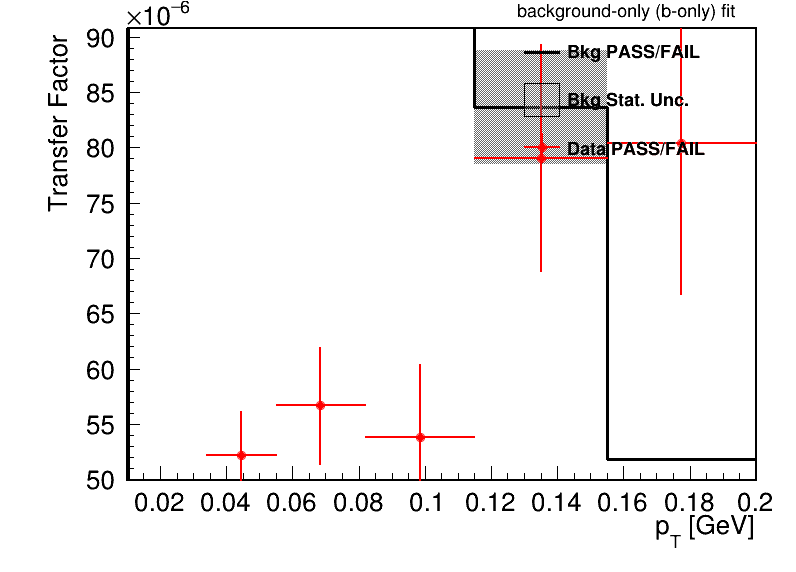
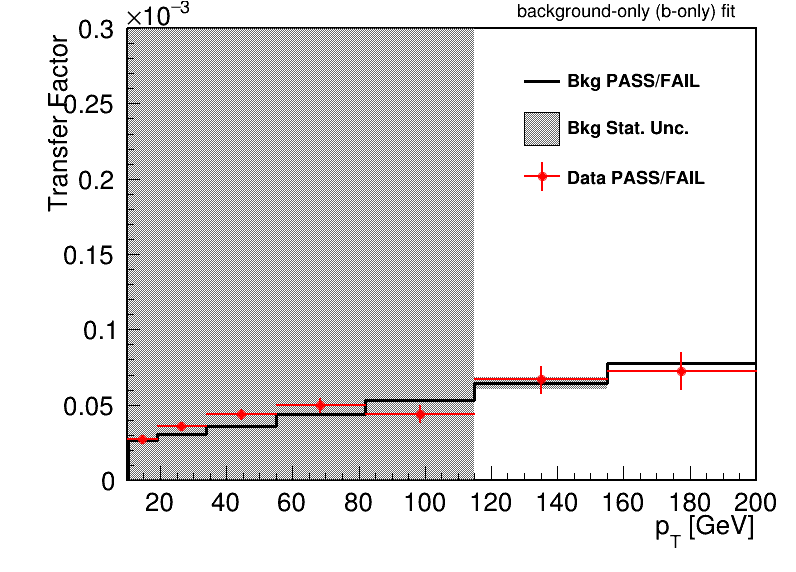
Added v13 results and matched param bounds over both v11 and v13

Changed region(s): [[0.0603, 0.0, 0.995, 0.8916], [0.7839, 0.8024, 0.9347, 0.8322], [0.0905, 0.8322, 0.1508, 0.8619]]

diff --git a/runWith1DVanilla_v13_VR.py b/runWith1DVanilla_v13_VR.py
@@ -38,7 +38,7 @@ _rpf_options = {
         'form': '0.1*(@0+@1*x)',
         'constraints': {
             0: {"MIN": 0.0, "MAX": 50},
-            1: {"MIN": -0.01, "MAX": 500}
+            1: {"MIN": -0.1, "MAX": 0.1}
         }
     },
     '1x0Prime': {
@@ -56,11 +56,11 @@ _rpf_options = {
     '2x0': {
         'form': '0.1*(@0+@1*x+@2*x**2)*(@3)',
         'constraints': {
-            0: {"MIN": 0.0, "MAX": 100},
-            1: {"MIN": 50, "MAX": 100},
-            2: {"MIN": -50, "MAX": 0},
-            3: {"MIN": 0, "MAX": 0.1}
-        }
+            0: {"MIN": 0.0, "MAX": 1},
+            1: {"MIN": 0.5, "MAX": 1},
+            2: {"MIN": -0.5, "MAX": 0},
+            3: {"MIN": 0, "MAX": 1}
+         }
     },
     '2x1': {
         'form': '0.1*(@0+@1*x+@2*x**2)*(1+@3*y)',
@@ -72,7 +72,10 @@ _rpf_options = {
     },
     'expo': {
         'form': 'exp(-@0*x+@1)',
-        'constraints': _generate_constraints(2)
+        'constraints': {
+            0: {"MIN": -1.0, "MAX": 50},
+            1: {"MIN": -500, "MAX": 500}
+            }
         },
     'sigmoid': {
         'form': '(@0+0.1*@4*x)/(@1+exp(-@2*x+@3))',
@@ -180,8 +183,8 @@ def plot_fit(signal, tf):
     print("Doing twoD.ledger.select")
     subset = twoD.ledger.select(_select_signal, '{}'.format(signal), tf) 
     print("Doing twoD.StdPlots")
-    twoD.StdPlots('{}-{}_area'.format(signal, tf), subset, lumiText=r'Run 3 Cosmics', pf_slice_str={"fail":"RNNScore < 0.9999","pass":"RNNScore > 0.9999"})
-    twoD.StdPlots('{}-{}_area'.format(signal, tf), subset, True, lumiText=r'Run 3 Cosmics', pf_slice_str={"fail":"RNNScore < 0.9999","pass":"RNNScore > 0.9999"})
+    twoD.StdPlots('{}-{}_area'.format(signal, tf), subset, lumiText=r'Run 3 Cosmics', pf_slice_str={"fail":"RNNScore < 0.45","pass":"0.45 < RNNScore < 0.9999"})
+    twoD.StdPlots('{}-{}_area'.format(signal, tf), subset, True, lumiText=r'Run 3 Cosmics', pf_slice_str={"fail":"RNNScore < 0.45","pass":"0.45 < RNNScore < 0.9999"})
 
 def GOF(signal,tf,condor=True, extra=''):
     # replace the blindedFit option in the config file with COMMENT to effectively "unblind" the GoF
@@ -366,10 +369,9 @@ def test_FTest(poly1, poly2, signal=''):
 
 if __name__ == "__main__":
     make_workspace()
-    
-    signal_areas = []#, "Signal_M3000GeV"]#, "Signal_M3000GeV"]#"Signal_M900GeV","Signal_M1000GeV","Signal_M1100GeV","Signal_M1200GeV","Signal_M1300GeV","Signal_M1400GeV",]
-    #signal_areas = ["Signal_M1100GeV","Signal_M1200GeV","Signal_M1300GeV","Signal_M1400GeV","Signal_M1500GeV","Signal_M1600GeV","Signal_M1700GeV","Signal_M1800GeV","Signal_M1900GeV","Signal_M2000GeV","Signal_M2100GeV","Signal_M2200GeV","Signal_M2300GeV","Signal_M2400GeV","Signal_M2500GeV","Signal_M2600GeV","Signal_M2700GeV","Signal_M2800GeV","Signal_M2900GeV","Signal_M3000GeV","Signal_M3250GeV","Signal_M3500GeV","Signal_M3750GeV","Signal_M4000GeV","Signal_M4250GeV","Signal_M4500GeV","Signal_M4750GeV","Signal_M5000GeV"]
-    tf_types = []#,'0x0']
+
+    signal_areas = ["Signal_M3000GeV","Signal_M3000GeV","Signal_M3000GeV"]
+    tf_types = ['2x0','1x0','0x0']
 
     for signal, tf_type in zip(signal_areas,tf_types) :
       # IGNORE: When there are 100 signals, let's make sure we only run on the ones we didnt do before
@@ -387,7 +389,7 @@ if __name__ == "__main__":
           rMax = rMax / 2.
       plot_fit(signal,tf_type)
       print("\n\n\nFit is succesful, running limits now for " + str(signal))
-      run_limits(signal,tf_type)
+      #run_limits(signal,tf_type)
       GOF(signal,tf_type,condor=False)#,extra='--text2workspace --channel-masks --setParameters mask_pass_SIG=1,mask_pass_HIGH=1')
       plot_GOF(signal,tf_type,condor=False)
       #for r in [0,0.1,0.5,1,2,3]:

diff --git a/plot_TF_danyi.py b/plot_TF_danyi.py
@@ -38,7 +38,7 @@ if __name__ == "__main__":
     
     binning = "V5"
     inVersion = "V21" #"V21"
-    tf = "2x0" # "Expo"
+    tf = "1x0" # "Expo"
     
     # for MBH_val in range(3000, 12000, 1000):
     for MBH_val in [10000]:
@@ -50,11 +50,11 @@ if __name__ == "__main__":
         # ===========================
         # rootdir = f'/home/users/dazhang/works/phaseSpace/BlackHoleSearch/CMSSW_14_1_0_pre4/src/rpf{tf}_Binning{binning}_Blind_In{inVersion}_Multi4_FullScan_MD2TeV'
         # rootdir = f'/home/users/dazhang/works/phaseSpace/BlackHoleSearch/CMSSW_14_1_0_pre4/src/rpf{tf}_Binning{binning}_Blind_In{inVersion}_Multi4'
-        rootdir = f'/home/users/smasanam/EarthAsDMProject/CMSSW_14_1_0_pre4/src/rpfmult_Binningv6alt_Inputv12_VR2_Unblind_3000GeV_normalized'
+        rootdir = f'/home/users/smasanam/EarthAsDMProject/CMSSW_14_1_0_pre4/src/rpfmult_Binningv6alt_Inputv13_VR2_Unblind_3000GeV_normalized'
         # rootdir = f'/home/users/dazhang/works/phaseSpace/BlackHoleSearch/CMSSW_14_1_0_pre4/src/rpf{tf}_Binning{binning}_Unblind_In{inVersion}_Multi4'
         # rootdir = f'/home/users/dazhang/works/phaseSpace/BlackHoleSearch/CMSSW_14_1_0_pre4/src/rpf{tf}_Binning{binning}_Unblind_In{inVersion}_Multi4_FullScan_MD2TeV'
         # rootdir = f'/home/users/dazhang/works/phaseSpace/BlackHoleSearch/CMSSW_14_1_0_pre4/src/rpf{tf}_Binning{binning}_Blind_In{inVersion}_Multi4_Extrapol'
-        f = ROOT.TFile.Open(f"/home/users/smasanam/EarthAsDMProject/CMSSW_14_1_0_pre4/src/rpfmult_Binningv6alt_Inputv12_VR2_Unblind_3000GeV_normalized/Signal_M3000GeV-1x0_area/plots_fit_b/all_plots.root")
+        f = ROOT.TFile.Open(f"/home/users/smasanam/EarthAsDMProject/CMSSW_14_1_0_pre4/src/rpfmult_Binningv6alt_Inputv13_VR2_Unblind_3000GeV_normalized/Signal_M3000GeV-1x0_area/plots_fit_b/all_plots.root")
         # get the histogram
         h_fail = f.Get("TotalBkg_fail_postfit_projx2")
         h_pass = f.Get("TotalBkg_pass_postfit_projx2")
@@ -162,13 +162,13 @@ if __name__ == "__main__":
         h_ratio.SetBinError(h_ratio.GetNbinsX(), 0.0)
         
         
-        h_ratio = convert_hist_to_tev(h_ratio)  # Convert to TeV
+        h_ratio = h_ratio  # Convert to TeV
         h_ratio.SetLineColor(ROOT.kBlack)
         h_ratio.SetLineWidth(1)
         
         h_ratio_data = h_data_pass.Clone("h_ratio_data")
         h_ratio_data.Divide(h_data_fail)
-        h_ratio_data = convert_hist_to_tev(h_ratio_data)  # Convert to TeV
+        h_ratio_data = h_ratio_data  # Convert to TeV
         h_ratio_data.SetMarkerStyle(20) # Circle marker
         h_ratio_data.SetMarkerSize(1.0)
         h_ratio_data.SetLineWidth(2)
@@ -192,7 +192,7 @@ if __name__ == "__main__":
         # h_ratio.GetYaxis().SetRangeUser(0, 0.2)
         h_ratio.GetXaxis().SetTitle("p_{T} [GeV]")
         h_ratio.GetYaxis().SetTitle("Transfer Factor")
-        # h_ratio.GetYaxis().SetRangeUser(0, 1.5)
+        h_ratio.GetYaxis().SetRangeUser(0, 0.0003)
         h_ratio.GetXaxis().SetTitleSize(0.05)
         h_ratio.GetYaxis().SetTitleSize(0.05)
         #tdrstyle.drawCMSLabel(label="Preliminary")
@@ -249,7 +249,7 @@ if __name__ == "__main__":
         # tf_lower_graph.Draw("SAME L")
         
         
-        legend = ROOT.TLegend(0.65, 0.7, 0.9, 0.95) # x1, y1, x2, y2 (NDC)
+        legend = ROOT.TLegend(0.65, 0.65, 0.9, 0.9) # x1, y1, x2, y2 (NDC)
         legend.AddEntry(h_ratio_clone, "Bkg PASS/FAIL", "l")
         legend.AddEntry(h_ratio, "Bkg Stat. Unc.", "f")
         legend.AddEntry(h_ratio_data, "Data PASS/FAIL", "lep") # "lep" for line, error, and point

diff --git a/runWith1DVanilla_v13_SR.py b/runWith1DVanilla_v13_SR.py
@@ -38,7 +38,7 @@ _rpf_options = {
         'form': '0.1*(@0+@1*x)',
         'constraints': {
             0: {"MIN": 0.0, "MAX": 50},
-            1: {"MIN": -0.01, "MAX": 500}
+            1: {"MIN": -0.1, "MAX": 0.1}
         }
     },
     '1x0Prime': {
@@ -56,11 +56,11 @@ _rpf_options = {
     '2x0': {
         'form': '0.1*(@0+@1*x+@2*x**2)*(@3)',
         'constraints': {
-            0: {"MIN": 0.0, "MAX": 100},
-            1: {"MIN": 50, "MAX": 100},
-            2: {"MIN": -50, "MAX": 0},
-            3: {"MIN": 0, "MAX": 0.1}
-        }
+            0: {"MIN": 0.0, "MAX": 1},
+            1: {"MIN": 0.5, "MAX": 1},
+            2: {"MIN": -0.5, "MAX": 0},
+            3: {"MIN": 0, "MAX": 1}
+         }
     },
     '2x1': {
         'form': '0.1*(@0+@1*x+@2*x**2)*(1+@3*y)',
@@ -367,9 +367,9 @@ def test_FTest(poly1, poly2, signal=''):
 if __name__ == "__main__":
     make_workspace()
     
-    signal_areas = []#, "Signal_M3000GeV"]#, "Signal_M3000GeV"]#"Signal_M900GeV","Signal_M1000GeV","Signal_M1100GeV","Signal_M1200GeV","Signal_M1300GeV","Signal_M1400GeV",]
+    signal_areas = ["Signal_M3000GeV", "Signal_M3000GeV", "Signal_M3000GeV"]
     #signal_areas = ["Signal_M1100GeV","Signal_M1200GeV","Signal_M1300GeV","Signal_M1400GeV","Signal_M1500GeV","Signal_M1600GeV","Signal_M1700GeV","Signal_M1800GeV","Signal_M1900GeV","Signal_M2000GeV","Signal_M2100GeV","Signal_M2200GeV","Signal_M2300GeV","Signal_M2400GeV","Signal_M2500GeV","Signal_M2600GeV","Signal_M2700GeV","Signal_M2800GeV","Signal_M2900GeV","Signal_M3000GeV","Signal_M3250GeV","Signal_M3500GeV","Signal_M3750GeV","Signal_M4000GeV","Signal_M4250GeV","Signal_M4500GeV","Signal_M4750GeV","Signal_M5000GeV"]
-    tf_types = []#,'0x0']
+    tf_types = ['2x0','1x0','0x0',]
 
     for signal, tf_type in zip(signal_areas,tf_types) :
       # IGNORE: When there are 100 signals, let's make sure we only run on the ones we didnt do before

diff --git a/runWith1DVanilla_v11_VR.py b/runWith1DVanilla_v11_VR.py
@@ -38,7 +38,7 @@ _rpf_options = {
         'form': '0.1*(@0+@1*x)',
         'constraints': {
             0: {"MIN": 0.0, "MAX": 50},
-            1: {"MIN": -50, "MAX": 500}
+            1: {"MIN": -0.1, "MAX": 0.1}
         }
     },
     '1x0Prime': {
@@ -56,10 +56,10 @@ _rpf_options = {
     '2x0': {
         'form': '0.1*(@0+@1*x+@2*x**2)*(@3)',
         'constraints': {
-            0: {"MIN": 0.0, "MAX": 100},
-            1: {"MIN": 50, "MAX": 100},
-            2: {"MIN": -50, "MAX": 0},
-            3: {"MIN": 0, "MAX": 0.1}
+            0: {"MIN": 0.0, "MAX": 1},
+            1: {"MIN": 0.5, "MAX": 1},
+            2: {"MIN": -0.5, "MAX": 0},
+            3: {"MIN": 0, "MAX": 1}
          }
     },
     '2x1': {
@@ -371,7 +371,7 @@ if __name__ == "__main__":
     make_workspace()
 
     signal_areas = ["Signal_M3000GeV","Signal_M3000GeV","Signal_M3000GeV"]
-    tf_types = ['2x0','1x0','0x0']
+    tf_types = ['1x0']
 
     for signal, tf_type in zip(signal_areas,tf_types) :
       # IGNORE: When there are 100 signals, let's make sure we only run on the ones we didnt do before

diff --git a/runWith1DVanilla_v13_VR2.py b/runWith1DVanilla_v13_VR2.py
@@ -56,10 +56,10 @@ _rpf_options = {
     '2x0': {
         'form': '0.1*(@0+@1*x+@2*x**2)*(@3)',
         'constraints': {
-            0: {"MIN": 0.0, "MAX": 100},
-            1: {"MIN": 50, "MAX": 100},
-            2: {"MIN": -50, "MAX": 0},
-            3: {"MIN": 0, "MAX": 0.1}
+            0: {"MIN": 0.0, "MAX": 1},
+            1: {"MIN": 0.5, "MAX": 1},
+            2: {"MIN": -0.5, "MAX": 0},
+            3: {"MIN": 0, "MAX": 0.01}
          }
     },
     '2x1': {
@@ -370,8 +370,8 @@ def test_FTest(poly1, poly2, signal=''):
 if __name__ == "__main__":
     make_workspace()
 
-    signal_areas = ["Signal_M3000GeV","Signal_M3000GeV","Signal_M3000GeV"]
-    tf_types = ['0x0','1x0', '2x0']
+    signal_areas = ["Signal_M3000GeV"]
+    tf_types = ['1x0']
 
     for signal, tf_type in zip(signal_areas,tf_types) :
       # IGNORE: When there are 100 signals, let's make sure we only run on the ones we didnt do before

diff --git a/runWith1DVanilla_v11_VR2.py b/runWith1DVanilla_v11_VR2.py
@@ -56,10 +56,10 @@ _rpf_options = {
     '2x0': {
         'form': '0.1*(@0+@1*x+@2*x**2)*(@3)',
         'constraints': {
-            0: {"MIN": 0.0, "MAX": 100},
-            1: {"MIN": 50, "MAX": 100},
-            2: {"MIN": -50, "MAX": 0},
-            3: {"MIN": 0, "MAX": 0.1}
+            0: {"MIN": 0.0, "MAX": 1},
+            1: {"MIN": 0.5, "MAX": 1},
+            2: {"MIN": -0.5, "MAX": 0},
+            3: {"MIN": 0, "MAX": 1}
          }
     },
     '2x1': {
@@ -370,8 +370,8 @@ def test_FTest(poly1, poly2, signal=''):
 if __name__ == "__main__":
     make_workspace()
 
-    signal_areas = ["Signal_M3000GeV","Signal_M3000GeV","Signal_M3000GeV"]
-    tf_types = ['2x0','1x0','0x0']
+    signal_areas = ["Signal_M3000GeV"]
+    tf_types = ['1x0']
 
     for signal, tf_type in zip(signal_areas,tf_types) :
       # IGNORE: When there are 100 signals, let's make sure we only run on the ones we didnt do before

diff --git a/2DAlphabet/TwoDAlphabet/alphawrap.py b/2DAlphabet/TwoDAlphabet/alphawrap.py
@@ -416,7 +416,7 @@ class BinnedDistribution(Generic2D):
                     if constant or self._nSurroundingZeros(cat_hist,xbin,ybin) > 7:
                         self.binVars[bin_name] = RooConstVar(bin_name, bin_name, cat_hist.GetBinContent(xbin,ybin))
                     else:
-                        self.binVars[bin_name] = RooRealVar(bin_name, bin_name, max(5,cat_hist.GetBinContent(xbin,ybin)), 1e-6, 1e6)
+                        self.binVars[bin_name] = RooRealVar(bin_name, bin_name, max(5,cat_hist.GetBinContent(xbin,ybin)), 1e-6, 1e9)
                         self.nuisances.append({'name':bin_name, 'constraint':'flatParam', 'obj': self.binVars[bin_name]})
                     self._varStorage.append(self.binVars[bin_name]) # For safety if we add shape templates            
                      

diff --git a/2DAlphabet/TwoDAlphabet/alphawrapMod.py b/2DAlphabet/TwoDAlphabet/alphawrapMod.py
@@ -379,7 +379,7 @@ class BinnedDistribution(Generic2D):
                     if constant or self._nSurroundingZeros(cat_hist,xbin,ybin) > 7:
                         self.binVars[bin_name] = RooConstVar(bin_name, bin_name, cat_hist.GetBinContent(xbin,ybin))
                     else:
-                        self.binVars[bin_name] = RooRealVar(bin_name, bin_name, max(5,cat_hist.GetBinContent(xbin,ybin)), 1e-6, 1e6)
+                        self.binVars[bin_name] = RooRealVar(bin_name, bin_name, max(5,cat_hist.GetBinContent(xbin,ybin)), 1e-6, 1e9)
                         self.nuisances.append({'name':bin_name, 'constraint':'flatParam', 'obj': self.binVars[bin_name]})
                     self._varStorage.append(self.binVars[bin_name]) # For safety if we add shape templates            
                      

diff --git a/runWith1DVanilla_v11_SR.py b/runWith1DVanilla_v11_SR.py
@@ -38,7 +38,7 @@ _rpf_options = {
         'form': '0.1*(@0+@1*x)',
         'constraints': {
             0: {"MIN": 0.0, "MAX": 50},
-            1: {"MIN": -50, "MAX": 500}
+            1: {"MIN": -0.1, "MAX": 0.1}
         }
     },
     '1x0Prime': {
@@ -56,11 +56,11 @@ _rpf_options = {
     '2x0': {
         'form': '0.1*(@0+@1*x+@2*x**2)*(@3)',
         'constraints': {
-            0: {"MIN": 0.0, "MAX": 100},
-            1: {"MIN": 50, "MAX": 100},
-            2: {"MIN": -50, "MAX": 0},
-            3: {"MIN": 0, "MAX": 0.1}
-        }
+            0: {"MIN": 0.0, "MAX": 1},
+            1: {"MIN": 0.5, "MAX": 1},
+            2: {"MIN": -0.5, "MAX": 0},
+            3: {"MIN": 0, "MAX": 1}
+         }
     },
     '2x1': {
         'form': '0.1*(@0+@1*x+@2*x**2)*(1+@3*y)',

diff --git a/README.md b/README.md
@@ -71,4 +71,4 @@ python3 runWith1DVanilla_vY_-R.py rpf1x0_BinningvX_InputvY_-R_Unblind config_Bin
 - v10: Cosmic MC with RNN cut at 0.9
 - v11: 2023D Cosmics with CR/VR/SR - [0,0.45),[0.45,0.9999],[0.9999,1]
 - v12: Run 3 Cosmics with CR/VR/SR - [0,0.45),[0.45,0.9999],[0.9999,1]
-- v13: Run 3 Cosmics with CR/VR/SR - [0,0.45),[0.45,0.9999],[0.9999,1] w/ chi2/ndof cut at 5
+- v13: Run 3 Cosmics with CR/VR/SR - [0,0.45),[0.45,0.9999],[0.9999,1] w/ chi2/ndof cut at 35
